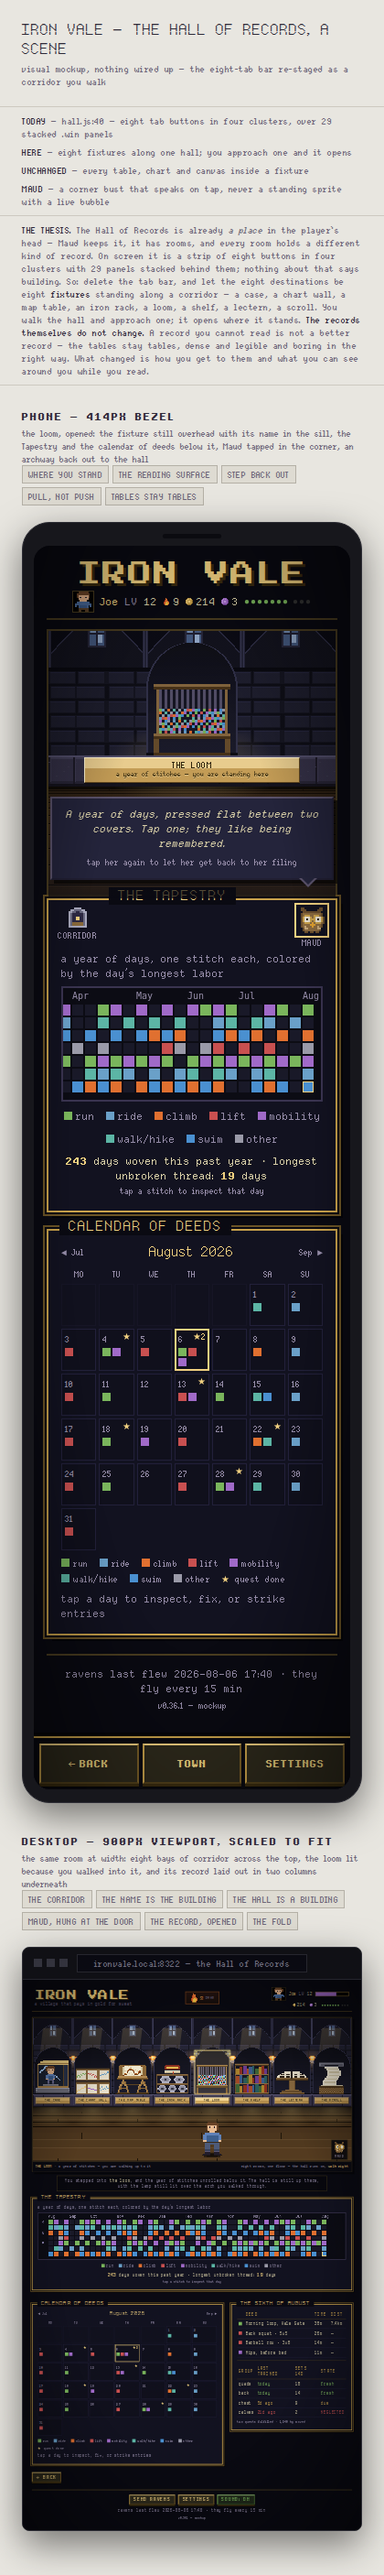
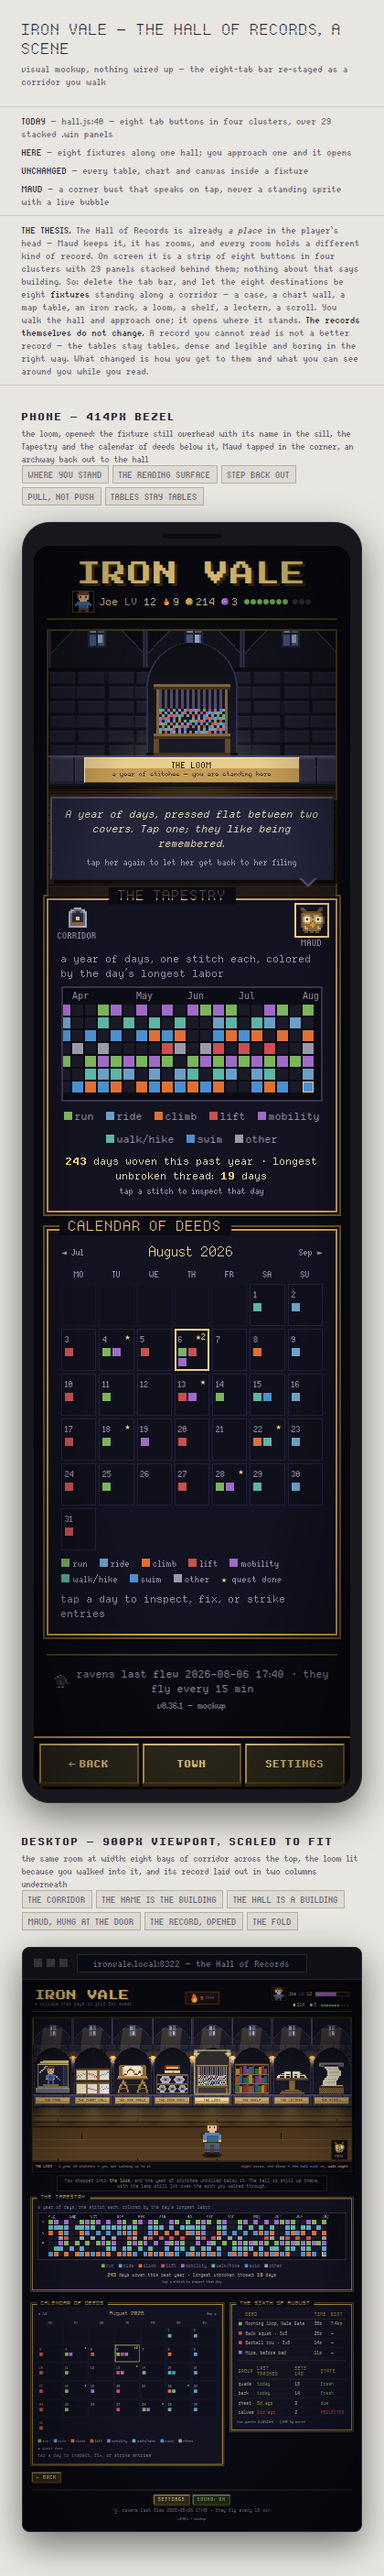
docs: perch a raven in the mockup footer and add the capture script
Second pass on the places-not-menus mockups, covering the last widget left
in the shared chrome and the tooling gap underneath the gallery.

_harness.js
  - IV.footer() drops the SEND RAVENS button. A bird is not a button: the
    raven now sits on the line that already reports when the ravens last
    flew, and you send her by touching her, the same law the billets and
    Grunhilda's hammer follow. SETTINGS and SOUND: ON are untouched, and
    the raven line's wording is unchanged.
  - New hand-authored raven_perched sprite in the char-map: facing left,
    hunched, folded wing down the flank, one pale eye, feet on the line.
    Drawn in near-blacks a shade above the page background so she reads as
    a silhouette rather than a hole punched in the footer.

capture.mjs
  - The script that produced the committed PNGs was never checked in, so
    the frames could not be reproduced. This one is reverse-engineered from
    them: each place-*.html opened over file:// at viewport 1440 for the
    desktop frame and 420 for the phone frame, full-page. It waits for the
    fit-scaled bezel to settle, then reads each PNG's real size back out of
    the IHDR and fails loudly if Chromium wrote a short image, because a
    truncated full-page capture looks correct until you scroll to the end.
  - It points at the preinstalled Chromium under PLAYWRIGHT_BROWSERS_PATH
    rather than downloading one.

All ten place-<scene>-{desktop,phone}.png re-rendered so the committed
[…]

diff --git a/docs/mockups/_harness.js b/docs/mockups/_harness.js
@@ -395,6 +395,29 @@ body { margin:0; background:var(--wall); color:var(--note); font-family:'quanta-
       '.....SSSS.....', '....SsSSSS....', '..SSSSssSSSS..', '.SSssSSSSssSS.',
       '.SSssSSSSssSS.', '.SSSSSSSSSSSS.',
     ]},
+    /* hand-authored: a raven sat in the footer, facing left, hunched the way
+       they sit when they have nowhere to be. She is the SEND RAVENS button:
+       the bird is already there, so there is nothing to press. Drawn in near-
+       blacks a shade above the page's own --bg so she reads as a silhouette
+       rather than a hole — b body, B the sheen along her back and crown, g the
+       folded wing lying down her flank and the wedge of her beak, k the gape
+       line and the shadow under her tail, e the one pale eye, f her feet. */
+    raven_perched: { p: { k: '#101018', b: '#20202a', B: '#4a4a5c', g: '#38384a', e: '#e4e4ee', f: '#6e6e7c' }, r: [
+      '.....BBBB.........',
+      '...BbbbbbbB.......',
+      '..bbebbbbbbB......',
+      '.ggbbbbbbbbbB.....',
+      'ggkbbbbbbbbbbB....',
+      '..bbbbbbbbbbBB....',
+      '..bbbgggbbbbBB....',
+      '..bbbggggbbbbB....',
+      '..bbbgggggbbbBBB..',
+      '...bbbgggggbbbbbbB',
+      '...bbbgggggbbkkkkk',
+      '....kbbbbbbk......',
+      '.....f...f........',
+      '....fff.fff.......',
+    ]},
   };
 
   /* merge scene-specific sprites in, same char-map shape */
@@ -567,7 +590,11 @@ body { margin:0; background:var(--wall); color:var(--note); font-family:'quanta-
   </div>`;
   };
 
-  /* IV.footer() — SEND RAVENS / SETTINGS / SOUND: ON + the raven line.
+  /* IV.footer() — SETTINGS / SOUND: ON + the raven line, with the raven on it.
+     SEND RAVENS is gone: a bird is not a button. She is perched on the line
+     that already says when the ravens last flew, and you send her by touching
+     her, the way you would send a real one. Same design law as the billets and
+     Grunhilda's hammer — the place does the work, not a pile of buttons.
      The .backrow and .footer-btns hide themselves under .iv-phone (CSS), so the
      same string serves both frames. */
   IV.footer = function (opts) {
@@ -577,11 +604,13 @@ body { margin:0; background:var(--wall); color:var(--note); font-family:'quanta-
     return `<div class="backrow"><button class="btn small">&larr; BACK</button></div>
   <div class="footer">
     <div class="footer-btns">
-      <button class="btn small">SEND RAVENS</button>
       <button class="btn small">SETTINGS</button>
       <button class="btn small green">SOUND: ON</button>
     </div>
-    <div class="muted">ravens last flew ${ravens} &middot; they fly every 15 min</div>
+    <div class="muted" style="display:inline-flex;align-items:center;gap:7px">
+      ${IV.spriteTag('raven_perched', 18)}
+      <span>ravens last flew ${ravens} &middot; they fly every 15 min</span>
+    </div>
     <div class="muted fine" style="margin-top:4px">${version}</div>
   </div>`;
   };
